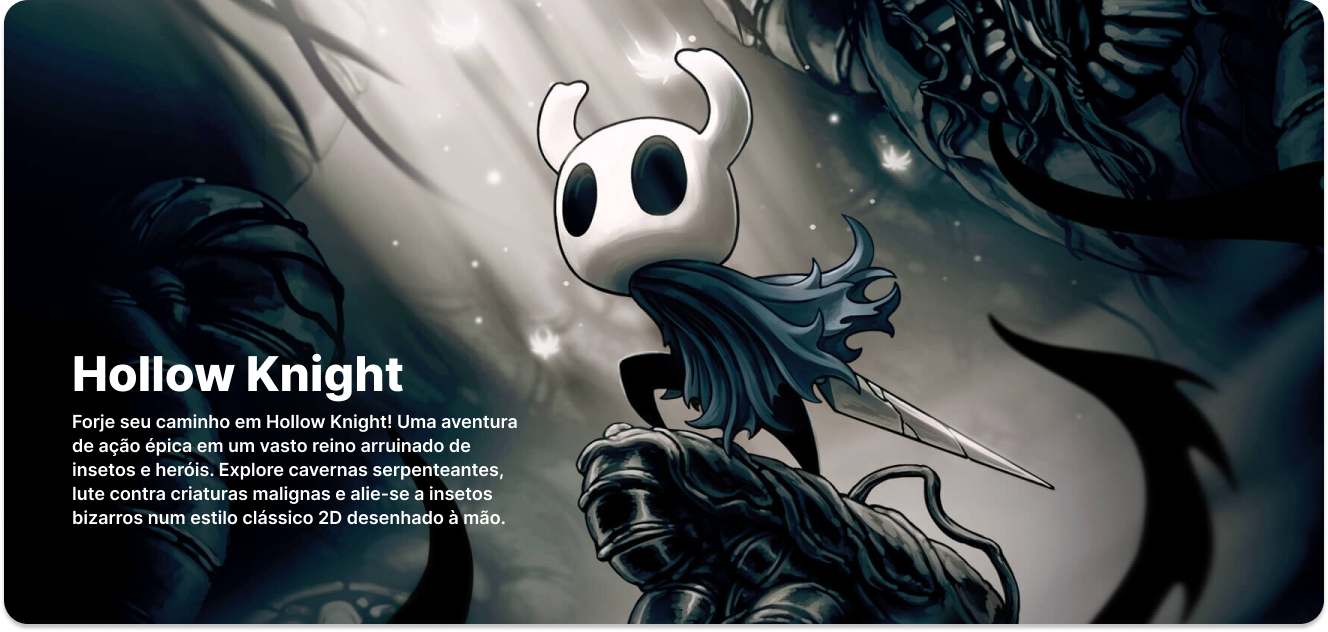
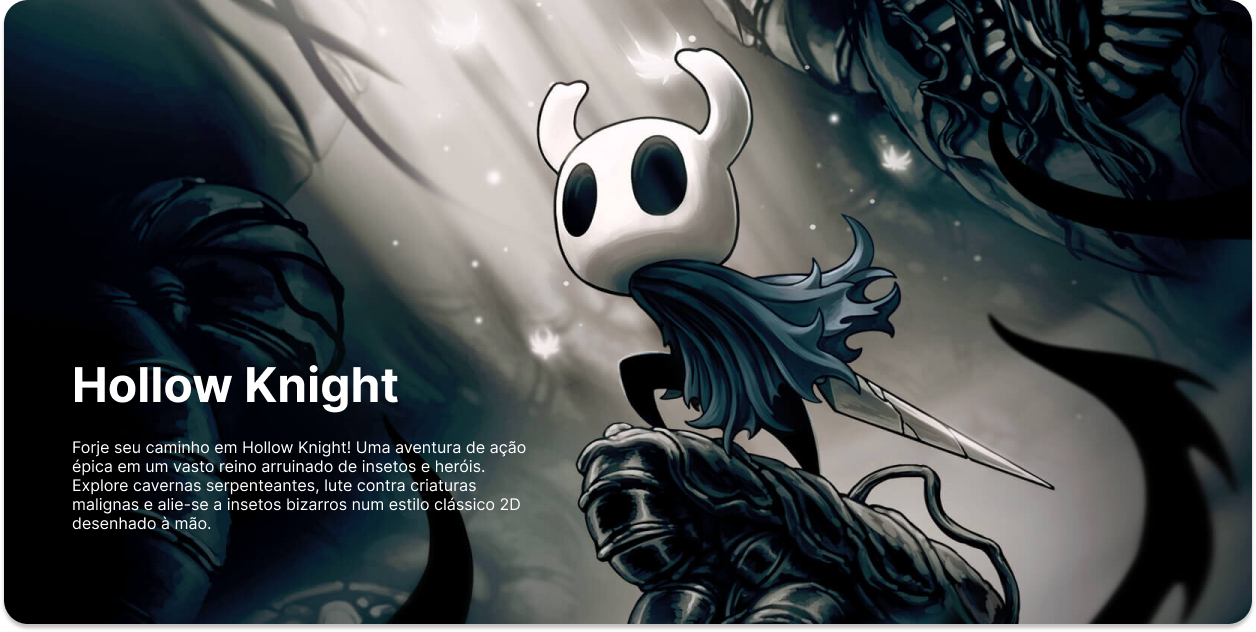
Updated index

diff --git a/templates/game/index.html b/templates/game/index.html
@@ -7,12 +7,12 @@
         <img src="{% static 'assets/banner-teste.png' %}">
     </div>
     <div class="principal__titulo">
-        <p class="principal__texto">Recomendado para você</p>
-        <div class="principal__setas">
-          <!-- navigation buttons -->
-          <div class="swiper-button-prev"><img src="{% static 'assets/left-icon.png' %}"></div>
-          <div class="swiper-button-next"><img src="{% static 'assets/right-icon.png'%}"></div>
-        </div>
+      <p class="principal__texto">Recomendado para você</p>
+      <div class="principal__setas">
+        <!-- navigation buttons -->
+        <div class="swiper-button-prev"><img src="{% static 'assets/left-icon.png' %}"></div>
+        <div class="swiper-button-next"><img src="{% static 'assets/right-icon.png'%}"></div>
+      </div>
     </div>
       <div class="swiper">
         <!-- Additional required wrapper -->
@@ -36,7 +36,7 @@
   <script src="https://cdn.jsdelivr.net/npm/swiper@11/swiper-bundle.min.js"></script>
   <script>
     const swiper = new Swiper('.swiper', {
-        spaceBetween: 24,
+        spaceBetween: 32,
         slidesPerView: 5,
         pagination: {
             el: '.swiper-pagination',

diff --git a/static/styles/style.css b/static/styles/style.css
@@ -25,6 +25,7 @@ body {
     justify-content: space-between;
     align-items: center;
     padding: 19.5px 16px;
+    border-bottom: solid 1px var(--font-color);
 }
 
 .cabecalho_container {
@@ -115,12 +116,17 @@ body {
 .principal {
     display: flex;
     flex-direction: column;
+    justify-content: center;
     align-items: center;
     
 }
 
 .principal__container {
-    width: 1320px;
+    width: 1248px;
+}
+
+.principal__banner {
+    margin-top: 32px;
 }
 
 .principal__titulo {
@@ -134,7 +140,7 @@ body {
     font-family: var(--fonte-principal);
     font-size: 36px;
     color: var(--font-color);
-    font-weight: 800;
+    font-weight: 600;
 }
 
 .principal__setas {
